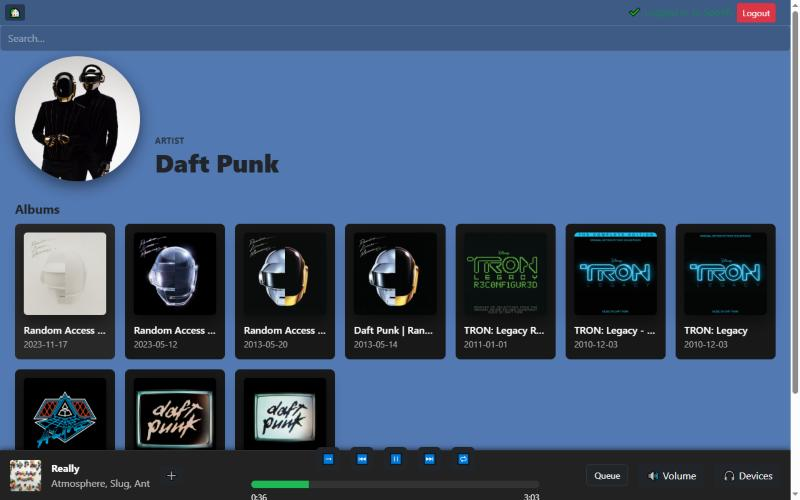
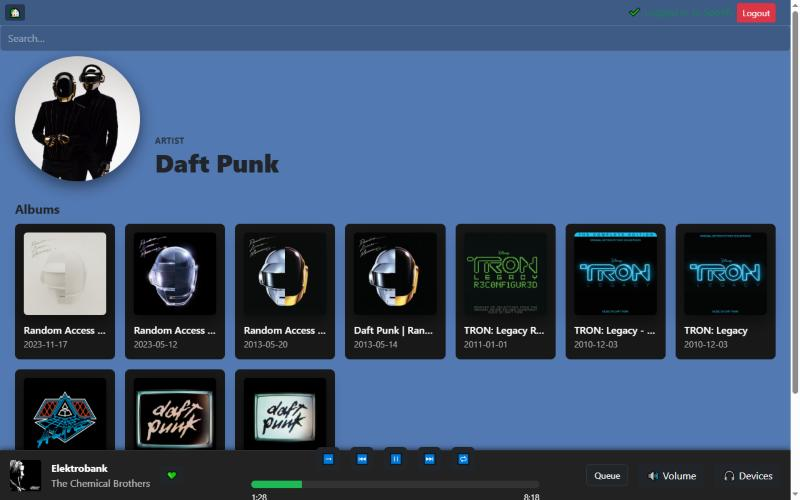
Retake the README screenshots
New shots of search, album, artist, liked, Now Playing with lyrics,
the four visualizer shots and the phone layout without the top bar.

diff --git a/README.md b/README.md
@@ -24,7 +24,7 @@
 ## 📸 Screenshots
 
 <p align="center">
-  <img src="docs/screenshots/visualizer.jpg" alt="Now Playing for Daft Punk's Too Long / Steam Machine, with Ring, Particles and Tunnel layered: pink and violet bars circling the cover, sparks flying out, and a glowing square expanding behind it" width="100%" />
+  <img src="docs/screenshots/visualizer.jpg" alt="Now Playing for The Chemical Brothers' Elektrobank, with Ring, Particles and Tunnel layered: rainbow bars circling the cover, sparks flying out, and glowing pink squares expanding behind it" width="100%" />
   <br/><sub><b>🌈 Winamp style Visualizers</b> — seven styles in the album art's colors, mixed and matched (here Ring + Particles + Tunnel), hitting harder in the chorus, or reacting to your mic with 🎙 Mic</sub>
 </p>
 
@@ -57,11 +57,11 @@
   <br/><sub><b>Album</b> — hover a row to play</sub>
 </td>
 <td width="37%" align="center" valign="top">
-  <img src="docs/screenshots/now-playing.jpg" alt="Now Playing for Linkin Park's Leave Out All The Rest, with the synced lyrics panel open and the current line highlighted" />
+  <img src="docs/screenshots/now-playing.jpg" alt="Now Playing for The Chemical Brothers' Elektrobank, with the synced lyrics panel open and the current line highlighted" />
   <br/><sub><b>Now Playing</b> — synced lyrics</sub>
 </td>
 <td width="26%" align="center" valign="top" rowspan="2">
-  <img src="docs/screenshots/mobile-album.jpg" alt="Album page on a phone" />
+  <img src="docs/screenshots/mobile-album.jpg" alt="Album page for Random Access Memories on a phone, with the top bar hidden and the ☰ Menu in the player bar" />
   <br/><sub><b>Mobile</b></sub>
 </td>
 </tr>
